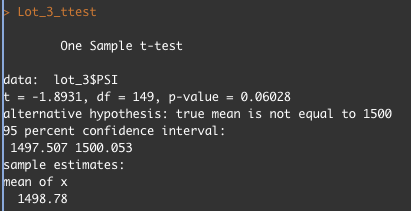
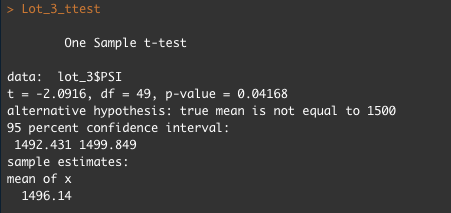
updates to rscript and ttest png

Changed region(s): [[0.0, 0.0, 0.9635, 1.0], [0.146, 0.1706, 0.438, 0.2559]]

diff --git a/README.md b/README.md
@@ -31,13 +31,20 @@ The design specifications for the MechaCar suspension coils dictate that the var
 
 ## T-Tests on Suspension Coils
 
+* All Lots were not significantly different but were approaching significance with p value = 0.06028. 
+
+
 
 ![All_Lots_ttest](https://raw.githubusercontent.com/asanchez116/MechaCar_Statistical_Analysis/main/Resources/All_Lots_ttest.png)
 
-
+* Results from Lot 1 show a non significant differnece between the mean PSI for lot 1 and the population mean PSI = 1500 with a pvalue = 1
 
 ![Lot_1_ttest](https://raw.githubusercontent.com/asanchez116/MechaCar_Statistical_Analysis/main/Resources/Lot_1_ttest.png)
 
+* Results for lot 2 show a non significant difference between the mean PSI for lot_2 and the population mean PSI = 1500 with a pvalue = 0.6072
+
 ![Lot_2_ttest](https://raw.githubusercontent.com/asanchez116/MechaCar_Statistical_Analysis/main/Resources/lot_2_ttest.png)
+
+* Results for Lot_3 show a significant difference between the mean PSI for Lot_3 and the population mean PSI = 1500 with a pvalue = 0.04168, sample mean = 1496.14 and confidence interval = 1492.431 1499.849
 
 ![Lot_3_ttest](https://raw.githubusercontent.com/asanchez116/MechaCar_Statistical_Analysis/main/Resources/Lot_3_ttest.png)
